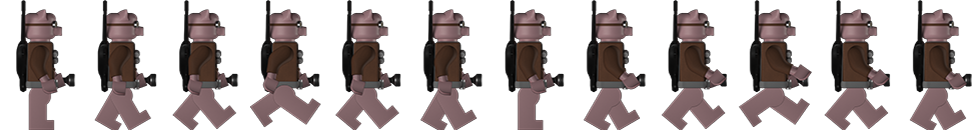
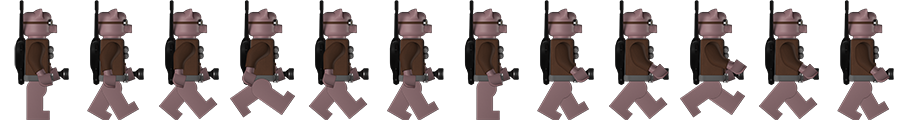
pi

diff --git a/functions/level1A.js b/functions/level1A.js
@@ -3,7 +3,7 @@ var level1A = {
     create: function() {
         game.input.keyboard.start();
         currentLevel = 'level1A';
-        if (check1A==true) {playerX = 304*16; playerY = 79*16;}
+        if (1==1/*check1A==true*/) {playerX = 304*16; playerY = 79*16;}
         else {playerX = 75; playerY = 1720;}
         fuga = 0;
         dialogo = 0;
@@ -100,7 +100,6 @@ var level1A = {
 
         cespugli.children.forEach( function(cespuglio) {
             cespuglio.anchor.setTo(.5,1);
-            cespuglio.scale.setTo(.5,.5);
             fruits.create(cespuglio.centerX-20, cespuglio.centerY-10, 'fruit').cespuglio = true;
         })
         fruits.children.forEach( function(fruit) {
@@ -121,24 +120,22 @@ var level1A = {
         // Maiali Tronco
         maiali = game.add.group();
         maiali.enableBody = true;
-        maiale1 = maiali.create(352*16, 71*16, 'maiale-torcia'); maiale1.scale.x = -1;
-        maiale2 = maiali.create(375*16, 71*16, 'maiale-torcia'); maiale2.scale.x = -1;
-        maiale3 = maiali.create(391*16, 71*16, 'maiale-torcia'); maiale3.scale.x = 1;
+        maiale1 = maiali.create(352*16, 75*16, 'maiale-torcia'); maiale1.scale.x = -1;
+        maiale2 = maiali.create(375*16, 75*16, 'maiale-torcia'); maiale2.scale.x = -1;
+        maiale3 = maiali.create(391*16, 75*16, 'maiale-torcia'); maiale3.scale.x = 1;
 
         maiali.children.forEach( function(maiale) {
-            maiale.anchor.setTo(.5,.5);
+            maiale.anchor.setTo(.5,1);
             maiale.frame = 12;
             maiale.body.offset.x = 50;
 
-            var torcia = maiale.addChild(game.make.sprite(15, 0, 'torcia'));
-            torcia.anchor.y = .5;
-            torcia.scale.setTo(.5,.5);
-            torcia.alpha = .5;
+            var torcia = maiale.addChild(game.make.sprite(30, -46, 'torcia'));
+            torcia.anchor.setTo(.11,.528);
             game.physics.arcade.enable(torcia);
 
             torciaA = game.add.tween(torcia).to( {angle: 55}, 750, sin).delay(500+1500*Math.random()).start();
             torciaB = game.add.tween(torcia).to( {angle:  0}, 750, sin).delay(500+1500*Math.random());
-            torciaA.onStart.add(function() {game.add.tween(maiale.body).to({width:180}, 750, sin).start(); game.add.tween(maiale.body.offset).to({y:100}, 750, sin).start() });
+            torciaA.onStart.add(function() {game.add.tween(maiale.body).to({width:180}, 750, sin).start(); game.add.tween(maiale.body.offset).to({y:125}, 750, sin).start() });
             torciaB.onStart.add(function() {game.add.tween(maiale.body).to({width:250}, 750, sin).start(); game.add.tween(maiale.body.offset).to({y:  0}, 750, sin).start() });
             torciaA.chain(torciaB, torciaA);
         })
@@ -149,16 +146,14 @@ var level1A = {
         // Safe Area
         safe = game.add.group();
         safe.enableBody = true;
-        safe.add(game.add.graphics(350*16+25, troncoS.y).lineStyle(1,0xffffff,.5).drawRect(0, 0, 18*16-50, 6*16));
-        safe.add(game.add.graphics(373*16+25, troncoS.y).lineStyle(1,0xffffff,.5).drawRect(0, 0, 20*16-50, 6*16));
-        safe.add(game.add.graphics(398*16+25, troncoS.y).lineStyle(1,0xffffff,.5).drawRect(0, 0, 12*16-50, 6*16));
-        safe.alpha = 0;
+        safe.add(game.add.graphics(350*16+15, troncoS.y).lineStyle(1,0xffffff,.5).drawRect(0, 0, 18*16-30, 6*16));
+        safe.add(game.add.graphics(373*16+15, troncoS.y).lineStyle(1,0xffffff,.5).drawRect(0, 0, 20*16-30, 6*16));
+        safe.add(game.add.graphics(398*16+15, troncoS.y).lineStyle(1,0xffffff,.5).drawRect(0, 0, 12*16-30, 6*16));
 
         // Player
         player = game.add.sprite(playerX, playerY, 'lupo');
         game.physics.arcade.enable(player);
         player.anchor.setTo(.5,.5);
-        player.scale.setTo(.9,.9);
         player.body.setSize(pW,pH,pX,pY);
         player.animations.add('left', [0,1,2,3,4,5,6,7,8,9,10,11], 20, true);
         player.animations.add('right', [12,13,14,15,16,17,18,19,20,21,22,23], 20, true);
@@ -183,19 +178,17 @@ var level1A = {
         // Maiali Fuga
         maialiF = game.add.group();
         maialiF.alpha = 0;
-        maiale4 = maialiF.create(390*16, 79*16, 'maiale-torcia');
-        maiale5 = maialiF.create(390*16, 79*16, 'maiale-torcia');
-        maiale6 = maialiF.create(390*16, 79*16, 'maiale-torcia');
+        maiale4 = maialiF.create(390*16, 82*16, 'maiale-torcia');
+        maiale5 = maialiF.create(390*16, 82*16, 'maiale-torcia');
+        maiale6 = maialiF.create(390*16, 82*16, 'maiale-torcia');
 
         maialiF.children.forEach( function(maialeF) {
-            maialeF.anchor.setTo(.5,.5);
+            maialeF.anchor.setTo(.5,1);
             maialeF.frame = 12;
-            maialeF.animations.add('walk', [12,13,14,15,16,17,18,19,20,21,22,23], 10, true);
+            maialeF.animations.add('walk', [0,1,2,3,4,5,6,7,8,9,10,11], 20, true);
 
-            var torcia = maialeF.addChild(game.make.sprite(15, 0, 'torcia'));
-            torcia.anchor.y = .5;
-            torcia.scale.setTo(.5,.5);
-            torcia.alpha = .5;
+            var torcia = maialeF.addChild(game.make.sprite(30, -46, 'torcia'));
+            torcia.anchor.setTo(.11,.528);
         })
 
         maiale4A = game.add.tween(maiale4).to( {x: rametto.x-330}, 2000+500*Math.random()).delay(500);
@@ -477,6 +470,6 @@ var level1A = {
     render: function() {
         game.debug.spriteCoords(player, 10, 762);
         game.debug.body(player, 'rgba(0,255,0,.1)');
-        //game.debug.body(maiale1); game.debug.body(maiale2); game.debug.body(maiale3);
+        game.debug.body(maiale1); game.debug.body(maiale2); game.debug.body(maiale3);
     }
 }

diff --git a/functions/loading.js b/functions/loading.js
@@ -26,9 +26,6 @@ var loadingState = {
         game.load.baseURL = 'assets/';
         // Graphics
         game.load.image('pause', 'graphics/pause.png');
-        // game.load.image('autori1', 'graphics/autori1.png');
-        // game.load.image('autori2', 'graphics/autori2.png');
-        // game.load.image('autori3', 'graphics/autori3.png');
         game.load.image('autori1-bg', 'graphics/autori1-bg.png');
         game.load.image('autori2-bg', 'graphics/autori2-bg.png');
         game.load.image('autori3-bg', 'graphics/autori3-bg.png');
@@ -42,14 +39,15 @@ var loadingState = {
         game.load.image('giorno1', 'background/giorno1.png');
         game.load.image('giorno2', 'background/giorno2.png');
         game.load.image('grotta-bg', 'background/grotta-bg.png');
-        game.load.image('grottaP', 'background/grottaP.png');
         game.load.image('intro', 'background/intro.png');
         game.load.image('waterfall', 'background/waterfall.png');
         game.load.image('fortezza-bg', 'background/fortezza-bg.png');
         // Characters
         game.load.spritesheet('lupo', 'characters/lupo.png', 64, 90);
         game.load.spritesheet('mamma', 'characters/mamma.png', 61.5, 100);
-        game.load.spritesheet('maiale-torcia', 'characters/maiale-torcia.png', 81.5, 130);
+        game.load.spritesheet('maiale', 'characters/maiale.png', 75, 120);
+        game.load.spritesheet('maiale-torcia', 'characters/maiale-torcia.png', 75, 120);
+        game.load.spritesheet('maiale-lanciafiamme', 'characters/maiale-lanciafiamme.png', 119.5, 120);
         game.load.image('soffio', 'characters/soffio.png');
         game.load.image('torcia', 'characters/torcia.png');
         game.load.image('flies', 'characters/flies.png');
